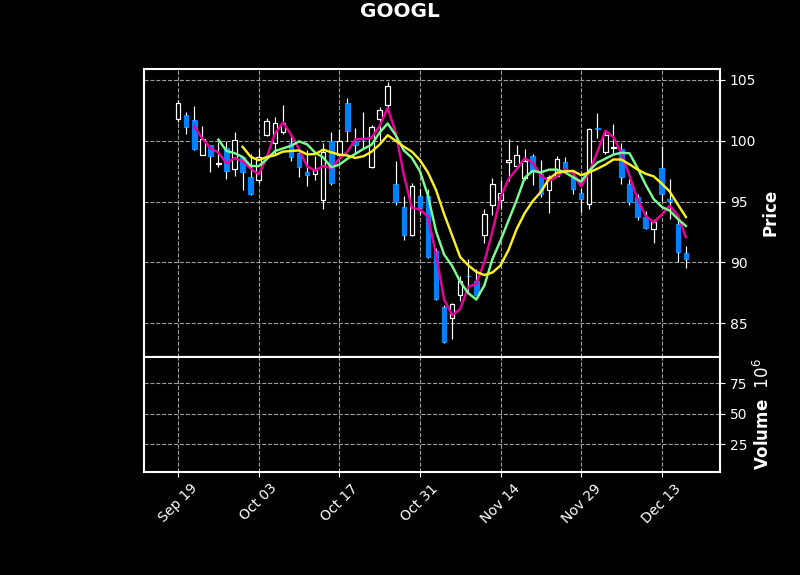
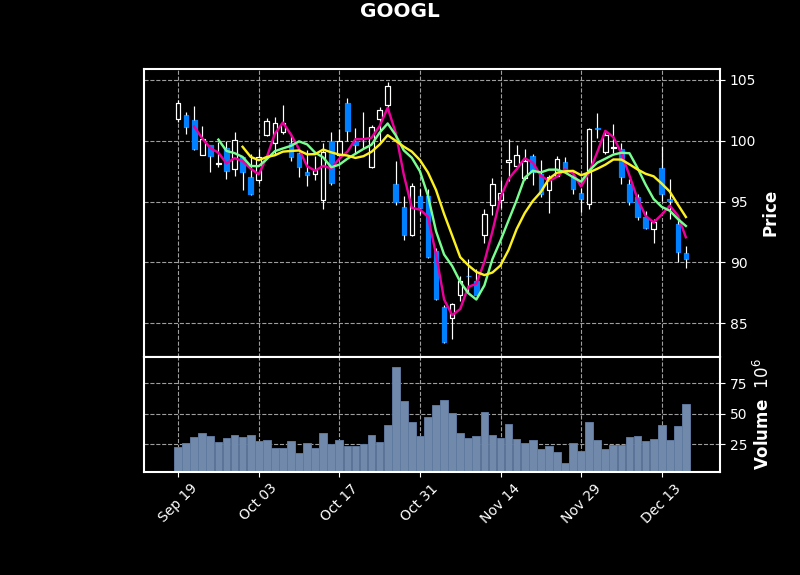
:memo: update the image to more clearify

Changed region(s): [[0.2188, 0.6209, 0.875, 0.8278]]

diff --git a/README.md b/README.md
@@ -14,7 +14,7 @@
 
 # About
 
-This is a side project create by Lucy's and me, the main idea is use Bert model for fuse the stock news title and past stock price to predict the stock price in the future.
+This is a side project create by Lucy and me, the main idea is use Bert model for fuse the stock news title and past stock price to predict the stock price in the future.
 
 What we notice when investing in stocks is that in addition to observing the past values of stocks and short-term changes in stocks. We also refer to the news of the stock market, that is, we refer to the buying and selling conditions of other investors or the operating conditions of the company. This is why simple models such as LSTM or DNN will be inaccurate in stock forecasting - it loses the fundamental value of the stock.
 
@@ -85,9 +85,13 @@ $python tools/add_feature.py
 
 Before we train the model, we do explore data analysis. There are some example figure below, and you can find the more detail at here. [**More Detail**](visulize/README.md)
 
-| Correlation GIF                    | News                 | Stock Risk              |
+| Correlation GIF                    | News                 | News mounts              |
 | ---------------------------------- | -------------------- | ----------------------- |
-| ![](https://i.imgur.com/wjYecB1.gif) | ![](./src/EDA/pvn.png) | ![](./src/trend/risk.png) |
+| ![](https://i.imgur.com/wjYecB1.gif) | ![](./src/EDA/pvn.png) | ![](./src/EDA/mount_new.png) |
+
+| Stock Price                    | News                 | Stock Risk              |
+| ---------------------------------- | -------------------- | ----------------------- |
+| ![](./src/EDA/AMZN_price.png) | ![](./src/predict/price.png) | ![](./src/trend/risk.png) |
 
 # Go Predict
 
@@ -112,7 +116,7 @@ Therefore, in the actual prediction, we remove the MLP and regard the BERT outpu
 As mentioned in the above paragraph, our bert model is shown below. First, there will be pre-trained bert (it is conceivable that we do not have enough data to do bert pre-training). Then, after the MLP constructed by myself, it is separated into feature and output, and the value obtained by output and news API is used as ground truth, and MSE loss is used for training. See **[experiment](#experiment)** for detailed training status.
 ![](./src/else/bert.png)
 
-### Train the BERT
+### Train the BERT model
 
 It takes about an hour to train Bert from scratch (single RTX3090).
 If the RAM is not large enough or you don’t want to train for too long, you can adjust it by modifying the parameters. The following training instructions are basic instructions for reference.
@@ -124,13 +128,49 @@ $python model/news2score.py
 # !python model/news2score.py -b 128 -e 20 --lr 5e-5
 ```
 
+### Train the Prediction model
+
+It's only take 1 minutes for training the prediction DNN model.
+Run the ipynb script could run the training process.
+
+```bash
+# Just run model/score2price.ipynb
+```
+
+### Inference
+Finally, we will get the two models weight. And use inference script would turn the stock price and news to predict price!
+
+Use this command counld inference our testing data!
+```bash
+$python model/inference.py
+```
+
+### Results
+
+For visiualize data, run tools/predict.ipynb would visualize the data which just finish inferece on last chapter.
+![](./src/predict/price.png)
+
 # Experiment
 
 ## BERT training process
 
+Finetuning pretrained bert weight from huggingface.
+Input is news title, and output is features of news(dimension = 16).
+We also use news scores from Martex.com as ground truth to train.
+Scatter plots below is our predict news score v.s. ground truth news score during training process.
+
 | 0 Epoch                     | 10 Epochs                    | 20 Epochs                    | 30 Epochs                    | 40 Epochs                    | 50 Epochs                    |
 | --------------------------- | ---------------------------- | ---------------------------- | ---------------------------- | ---------------------------- | ---------------------------- |
-| ![](./src/train/train/E0.jpg) | ![](./src/train/train/E10.jpg) | ![](./src/train/train/E20.jpg) | ![](./src/train/train/E30.jpg) | ![](./src/train/train/E40.jpg) | ![](./src/train/train/E45.jpg) |
+| ![](./src/train/train/E0.png) | ![](./src/train/train/E10.png) | ![](./src/train/train/E20.png) | ![](./src/train/train/E30.png) | ![](./src/train/train/E40.png) | ![](./src/train/train/E50.png) |
+
+## DNN predict stock returns training process
+Getting MSE and MAE Loss of other model and our model. We can see in belaow chart, our model has better performance than others.
+| Method   |  MSE  |  MAE  | 
+| -------- | ------ | ------ | 
+| LSTM | 9.85 | 6.83 | 
+| Shifting | 9.89 | 6.18 | 
+| **Our Model** | **6.21** | **4.14** | 
+
 
 # Acknowledgement
 
